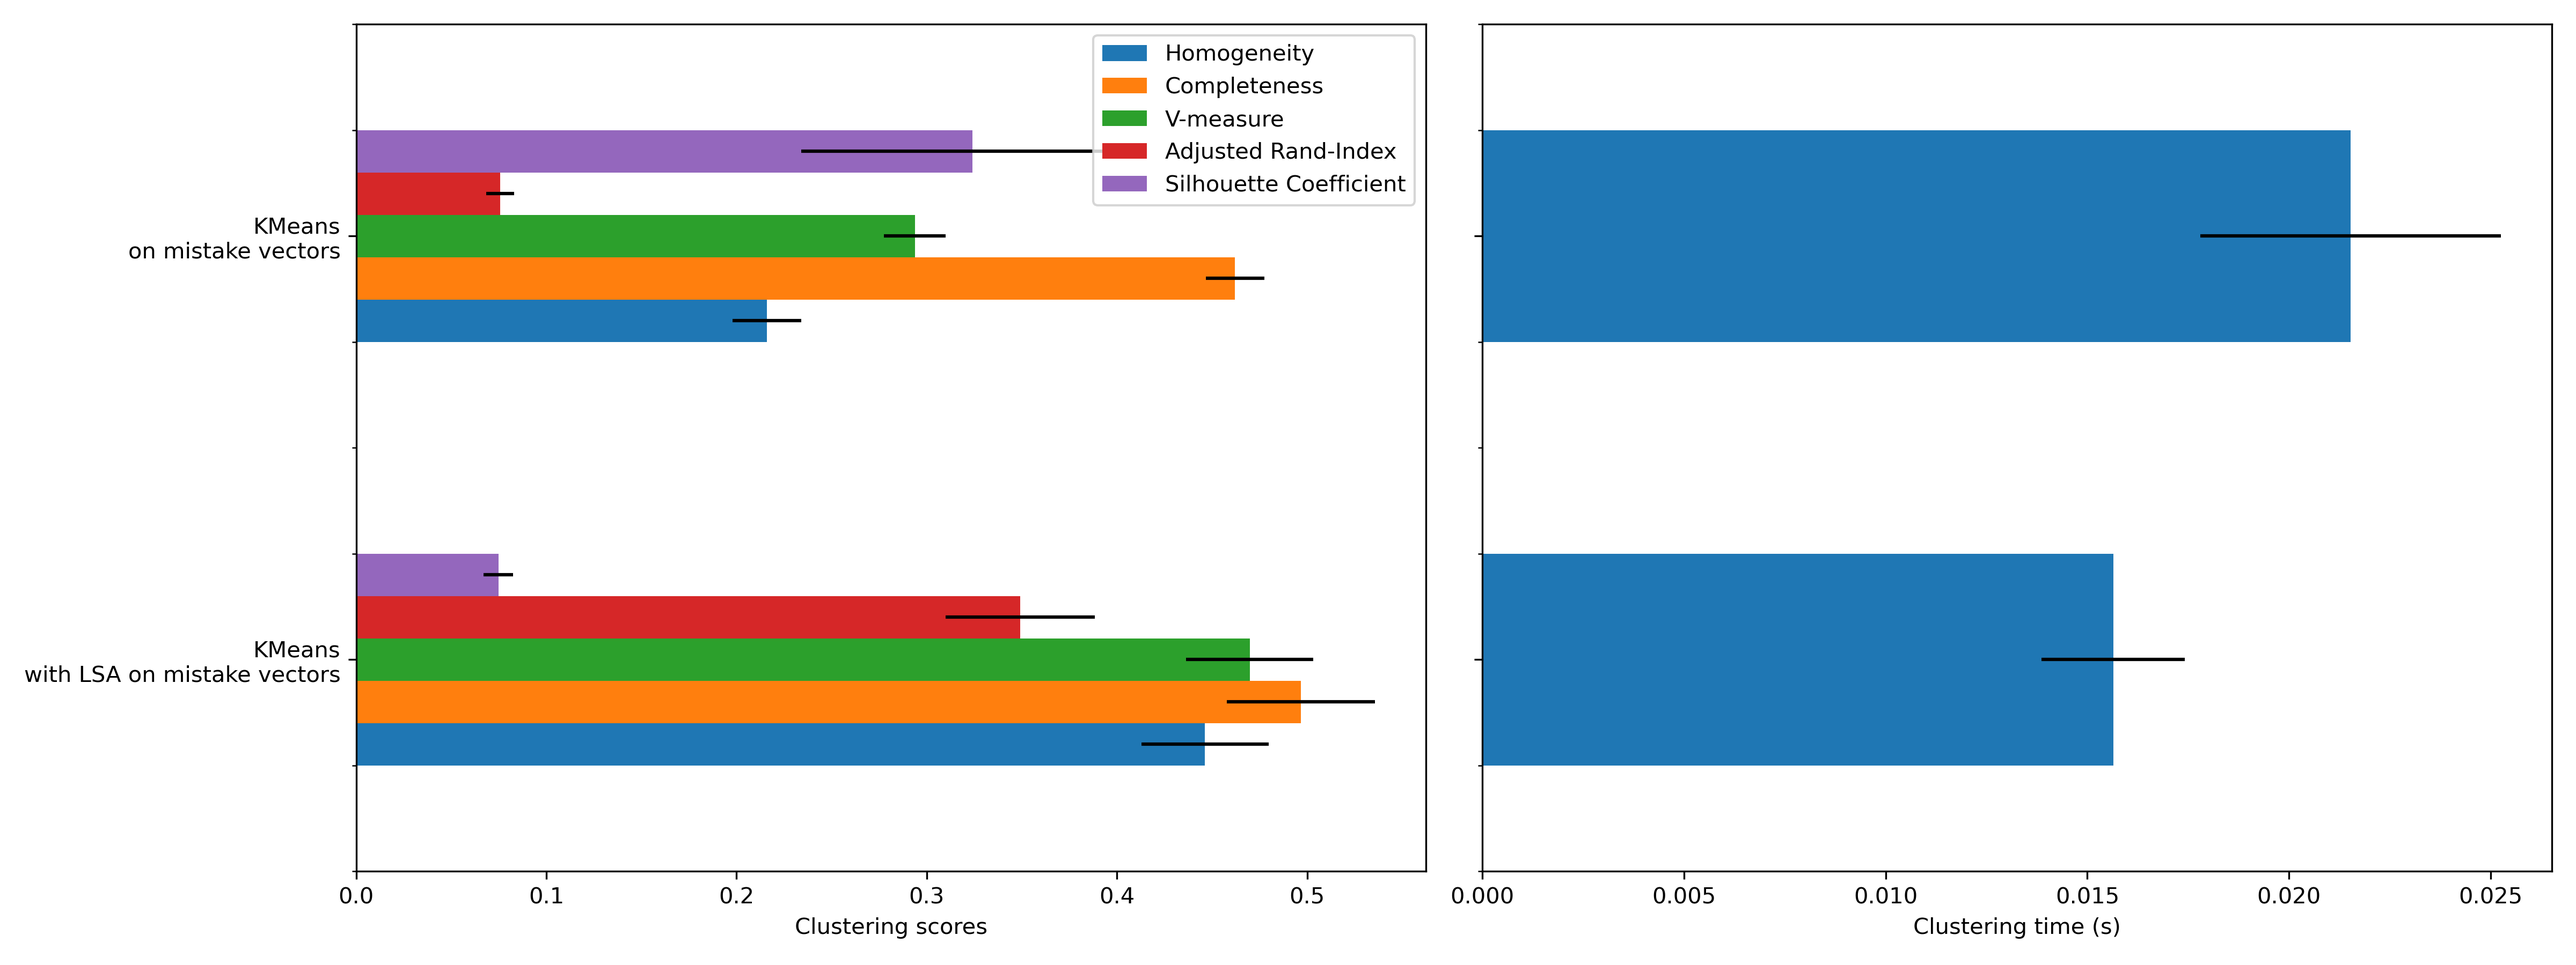
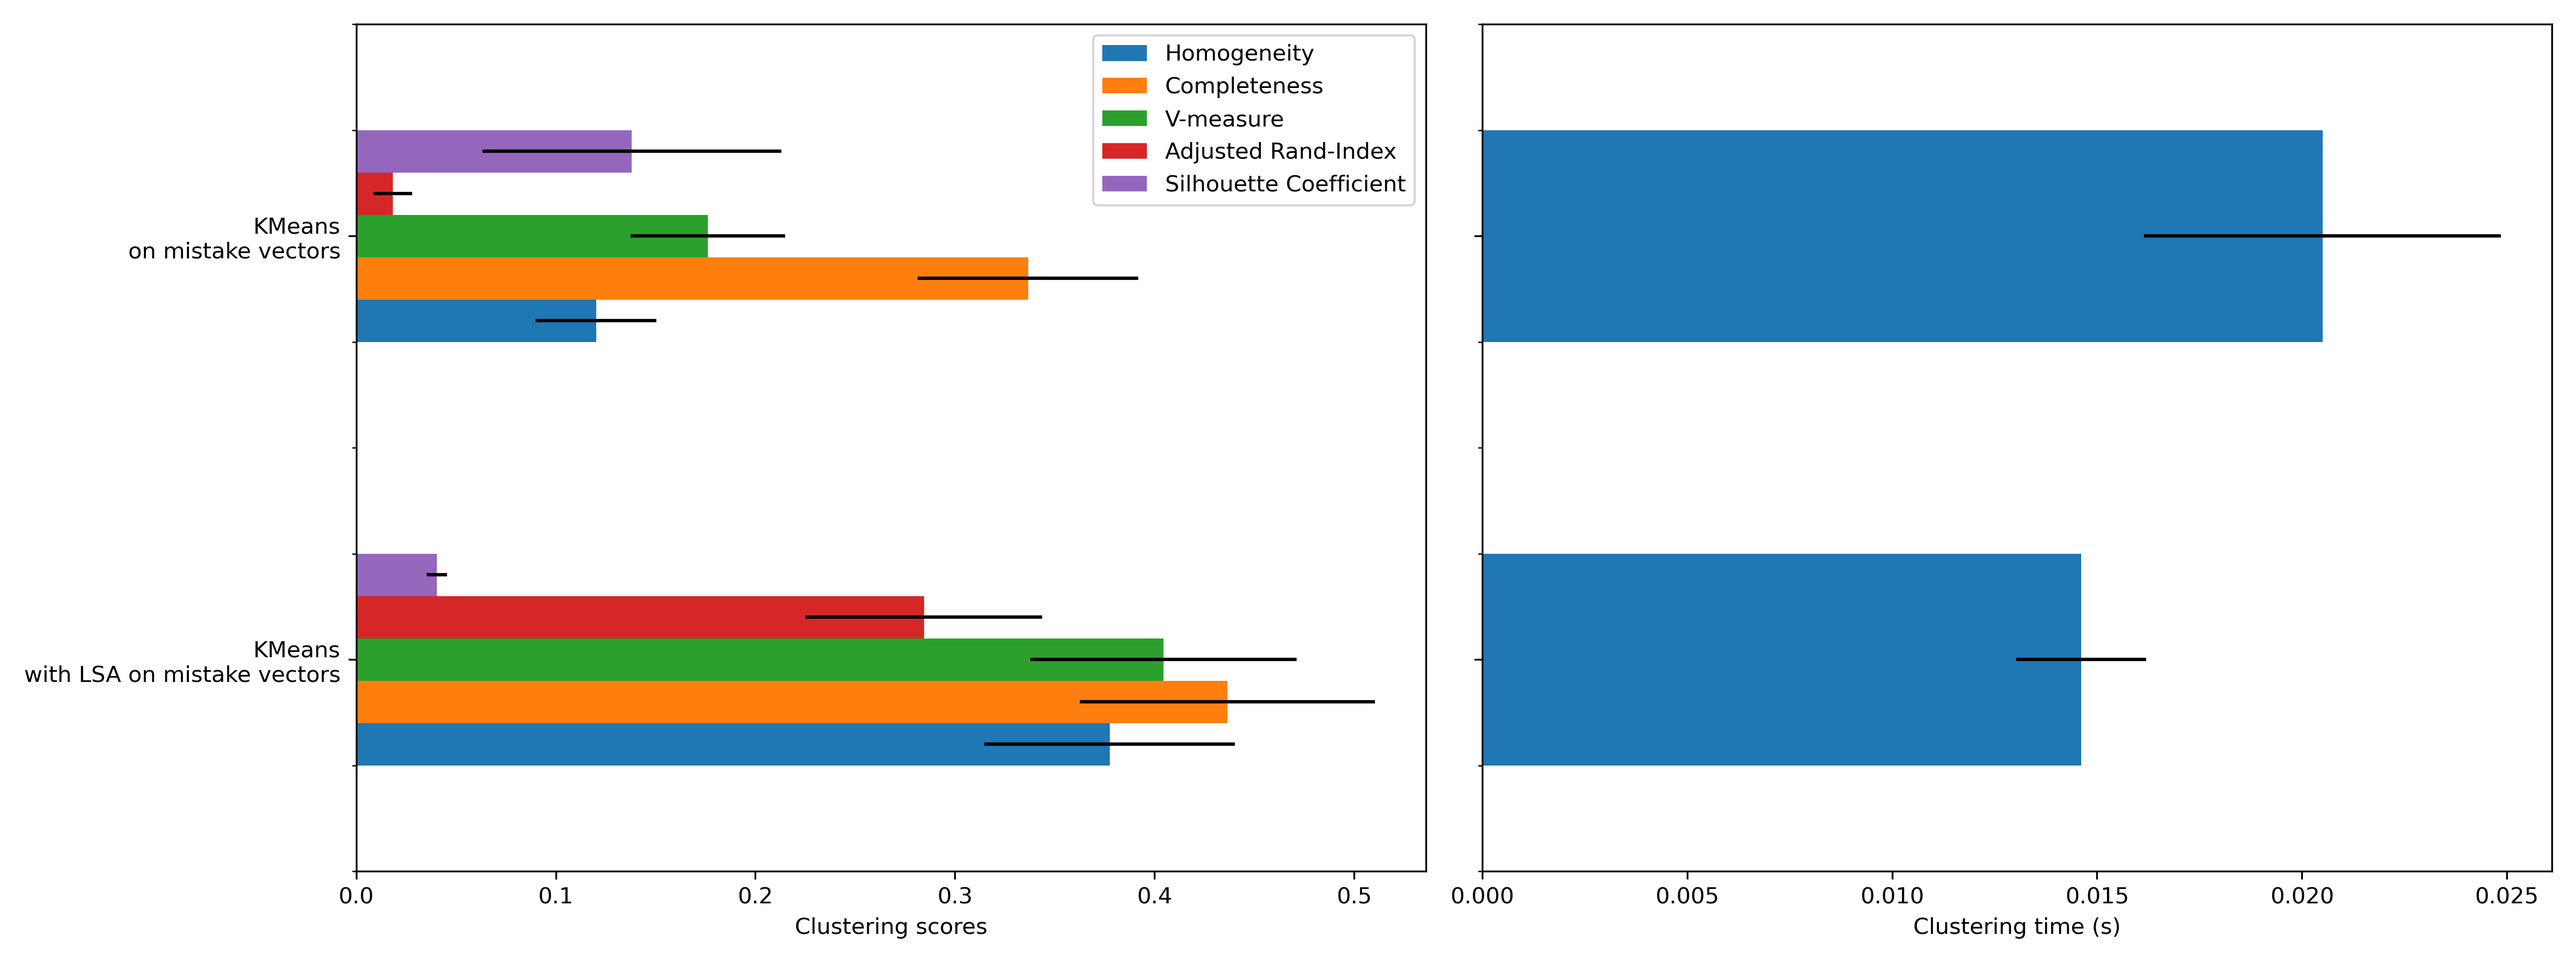
clip vector embeddings

diff --git a/run.py b/run.py
@@ -92,6 +92,8 @@ if __name__ == '__main__':
             for line in f:
                 line = line.strip()
                 encodings_dict[filename] += one_hot_encode(line)
+        encodings_dict[filename] = np.clip(encodings_dict[filename], a_min=None, a_max=1)
+        
     X = np.array([encodings_dict[filename] for filename in filenames])
 
     print(f"n_samples: {X.shape[0]}, n_features: {X.shape[1]}")

diff --git a/README.md b/README.md
@@ -44,13 +44,13 @@ python run.py
 ![Evaluation Metrics](https://github.com/sacktock/NA-OCR-Clustering/blob/main/clustering.png)
 
 ### Most common mistakes
-Cluster 0: fhe ane fone aud ond ard Ane Fhe fre dnd
+Cluster 0: Referenceprob bok Ree ote Ces tal fae Sher ces Sele
 
-Cluster 1: aud aus tte ote oud ree Aud ieee ated ete
+Cluster 1: ane aie ond fone eet fhe aud aed ete ine
 
-Cluster 2: mee fre Ces aes ete ont aie ene poe fone
+Cluster 2: aud aus acd ond aie ees Aer ote ated tae
 
-Cluster 3: ote Ree bok Referenceprob Sher fae Sele tal ces panies
+Cluster 3: mee Pre Soe ene ont fre fou ete fies ine
 
 ## Acks
 
